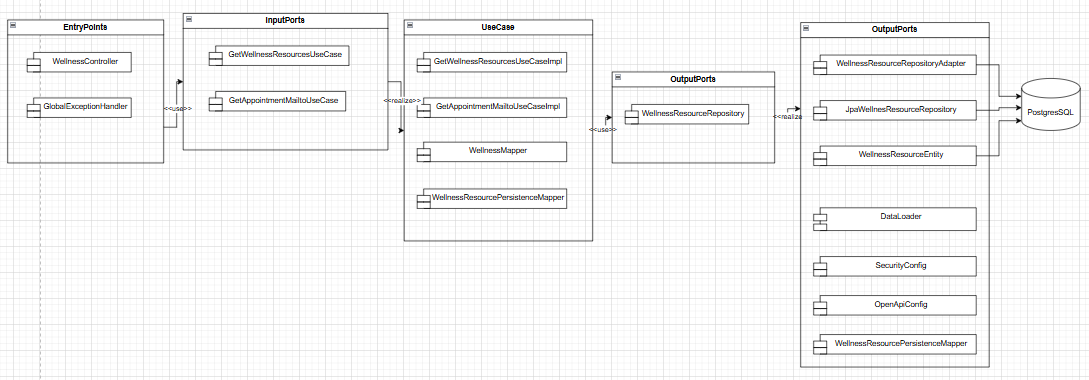
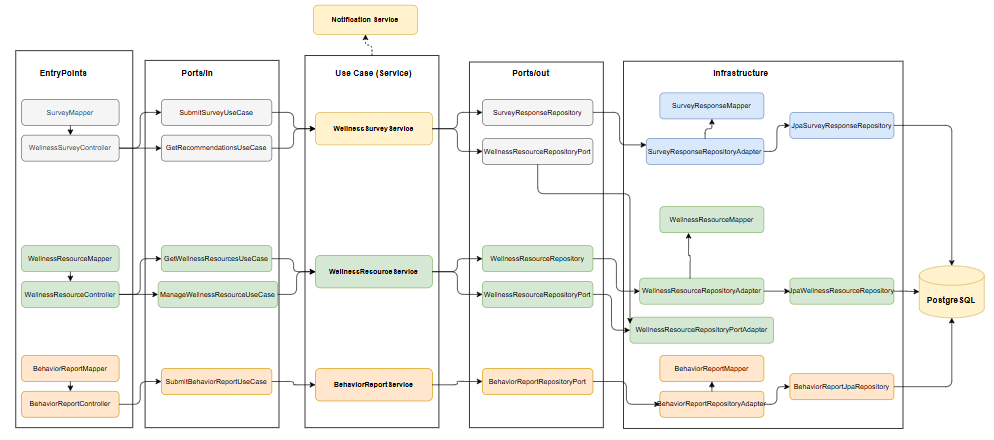
Se añadieron los diagramas de secuencia

diff --git a/README.md b/README.md
@@ -282,10 +282,6 @@ Headers: X-User-Name: Laura González
 
 ## 7. 📊 Diagrama
 
-### Diagrama de componentes - Vista General
-```
-///////////////////////
-```
 ### Diagrama de Componentes - Vista Especifica
 ![Diagrama de Componentes](docs/uml/DiagramaComponentesBienestar.png)
 
@@ -309,7 +305,60 @@ Headers: X-User-Name: Laura González
 
 ### Diagrama de Despliegue
 
-///////////////////////
+![]()
+
+---
+
+### 📊 Diagramas de Secuencia
+
+Un diagrama de secuencia muestra, en orden temporal, cómo interactúan los actores y componentes del sistema mediante mensajes o llamadas.
+
+#### 1. Listar Recursos de Bienestar
+
+Describe la consulta al directorio de recursos. Si `category != null`, el `WellnessResourceService` invoca `findByCategory(category)`; si es `null`, invoca `findAll()`. En ambos casos el resultado pasa por `WellnessResourceMapper` antes de retornar la lista de `WellnessResourceResponse` con 200.
+
+![]()
+ 
+---
+
+#### 2. Ver Detalle de Recurso de Bienestar
+
+Muestra la búsqueda de un recurso específico por ID. Si el repositorio retorna `Optional.empty()`, el use case propaga la excepción y el cliente recibe 404. Si existe, el mapper convierte la entidad a dominio y luego a `WellnessResourceResponse` con 200.
+
+![]()
+ 
+---
+
+#### 3. Reportar Comportamiento Inapropiado
+
+Ilustra el flujo de reporte: el `BehaviorReportController` delega al `SubmitBehaviorReportUseCase`, que transforma el request a dominio vía `BehaviorReportMapper`, persiste el reporte en `BehaviorReportRepositoryPort` (obteniendo `id` y `caseNumber`) y retorna `BehaviorReportResponse` con 201 Created.
+
+![]()
+ 
+---
+
+#### 4. Ver Reportes de Incidentes
+
+Representa la consulta de los reportes propios del estudiante. El `BehaviorReportController` llama a `getReportsByReporter(reporterId)`, el service busca en el repositorio con `findReportsByReporterId`, transforma las entidades a dominio con `toDomainList` y finalmente mapea a `List<BehaviorReportResponse>` retornando 200.
+
+![]()
+ 
+---
+
+#### 5. Encuesta de Bienestar
+
+Describe el envío de respuestas de encuesta. Si las respuestas son inválidas, `WellnessSurveyService` lanza `IllegalArgumentException` → 400. Si son válidas, persiste la `SurveyResponse`, calcula el nivel de bienestar con `calculateWellbeingLevel(responses)` y retorna `SurveyResultResponse` con 201 Created.
+
+![]()
+ 
+---
+
+#### 6. Recomendaciones de Bienestar
+
+Ilustra el motor de recomendaciones adaptativas. El `GetRecommendationUseCase` busca la última encuesta del estudiante con `findLatestByStudentId`. Si existe (`survey != null`), itera por categoría con `findByCategory` para personalizar las recomendaciones; si no existe, usa `findAllActive()` como fallback. Retorna `List<RecommendationResponse>` con 200.
+
+![]()
+ 
 ---
 
 ## 8. ⚠ Manejo de Errores
